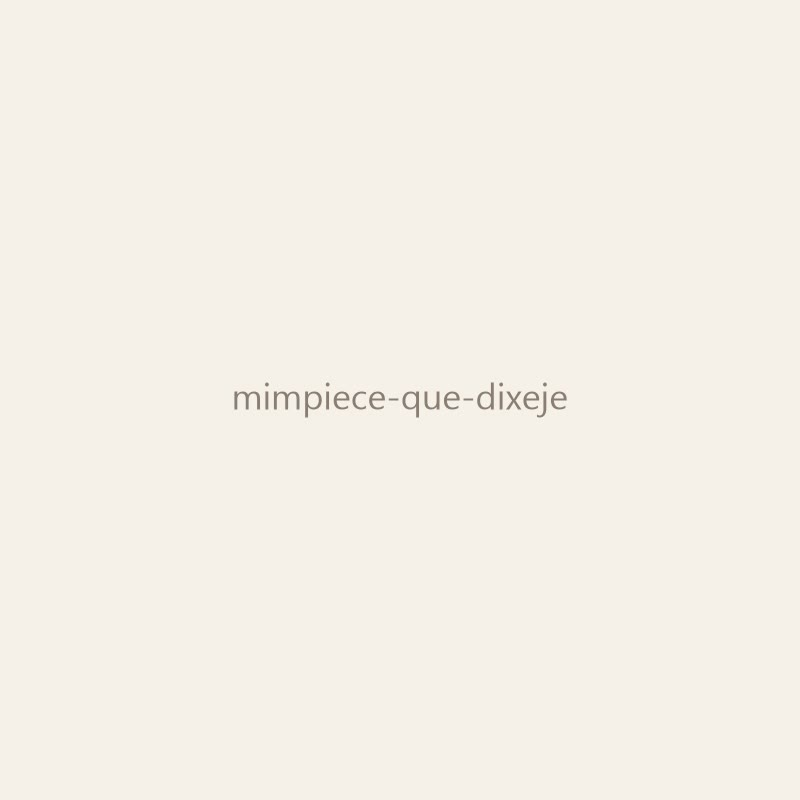
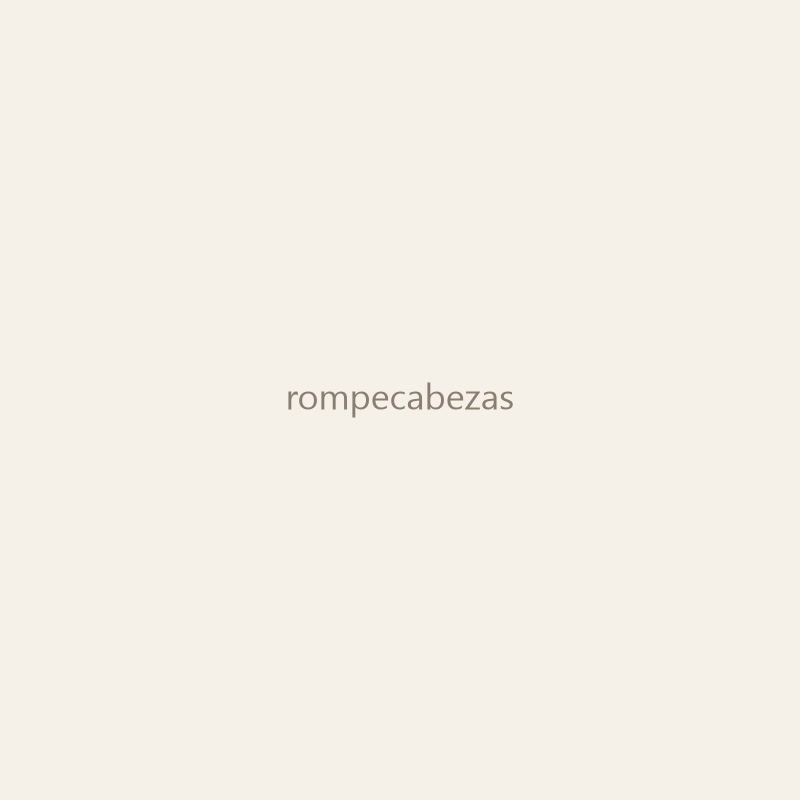
fix: replace corrupt WhatsApp SVG path (M17.472...9.413Z -> clean) in Header, WhatsAppButton, ProductCard
Root cause FINAL FINAL:
- WhatsApp SVG <path d='M17.472...9.413Z'> long decimal sequence corrupts under
  Next.js minifier/Terser + Edge runtime -> 'Expected number, ..59 10 5 12 3.41z'
- Browser SVG parser crash -> propagate -> React error #306 [object Module]
- Rendered on EVERY ProductCard in shop grid + header (global)

Fix: replaced with simplified path using fillRule + shorter decimals
Same path (M12 3C6.7...) used consistently across Header/WhatsAppButton/ProductCard

Changed region(s): [[0.2812, 0.4688, 0.7188, 0.5312]]

diff --git a/src/components/layout/WhatsAppButton.tsx b/src/components/layout/WhatsAppButton.tsx
@@ -16,7 +16,7 @@ export function WhatsAppButton() {
       aria-label={isConfigured ? "Contactar por WhatsApp" : "Configurar WhatsApp en src/lib/config.ts"}
     >
       <svg className="w-7 h-7" fill="currentColor" viewBox="0 0 24 24" aria-hidden="true">
-        <path d="M17.472 14.382c-.297-.149-1.758-.867-2.03-.967-.273-.099-.471-.148-.67.15-.197.297-.767.966-.94 1.164-.173.199-.347.223-.644.075-.297-.15-1.255-.463-2.39-1.475-.883-.788-1.48-1.761-1.653-2.059-.173-.297-.018-.458.13-.606.134-.133.298-.347.446-.52.149-.174.198-.298.298-.497.099-.198.05-.371-.025-.52-.075-.149-.669-1.612-.916-2.207-.242-.579-.487-.5-.669-.51-.173-.008-.371-.01-.57-.01-.198 0-.52.074-.792.372-.272.297-1.04 1.016-1.04 2.479 0 1.462 1.065 2.875 1.213 3.074.149.198 2.096 3.2 5.077 4.487.709.306 1.262.489 1.694.625.712.227 1.36.195 1.871.118.571-.085 1.758-.719 2.006-1.413.248-.694.248-1.289.173-1.413-.074-.124-.272-.198-.57-.347m-5.421 7.403h-.004a9.87 9.87 0 01-5.031-1.378l-.361-.214-3.741.982.998-3.648-.235-.374a9.86 9.86 0 01-1.51-5.26c.001-5.45 4.436-9.884 9.888-9.884 2.64 0 5.122 1.03 6.988 2.898a9.825 9.825 0 012.893 6.994c-.003 5.45-4.437 9.884-9.885 9.884m8.413-18.297A11.815 11.815 0 0012.05 0C5.495 0 .16 5.335.157 11.892c0 2.096.547 4.142 1.588 5.945L.057 24l6.305-1.654a11.882 11.882 0 005.683 1.448h.005c6.554 0 11.89-5.335 11.893-11.893a11.821 11.821 0 00-3.48-8.413Z" />
+        <path fillRule="evenodd" clipRule="evenodd" d="M12 3C6.7 3 2.4 6.8 1.2 11.6c0 .3.1.6.1 1H3.5c.1 0 .1-.1 0-.1-.2-.1-.3-.3-.4-.5C1 11.9 1 11.3 1 11 1 6.6 4.6 3 9 3h2.5c.3 0 .6.1.8.3.2.2.2.5.2.8v1.3c0 .3-.1.6-.3.7-.2.1-.4.2-.7.2h-2c-.3 0-.5-.2-.5-.5v-2c0-.3.2-.6.5-.7.2-.1.5-.1.7-.1h4c.8 0 1.5.7 1.5 1.5v6.9c0 .3-.1.6-.3.8-.2.1-.5.2-.7.2h-1c-.4 0-.7.3-.7.7 0 .8.7 1.5 1.5 1.5h2c.6 0 1 .5 1 1.1 0 .3-.1.6-.3.8-.2.2-.4.3-.7.4C21.7 18.4 24 15 24 11 24 6.6 21.3 3 18.5 3H17c-.3 0-.6-.1-.8-.3-.2-.2-.2-.5-.2-.8z" />
       </svg>
       {!isConfigured && (
         <span className="absolute -top-1 -right-1 bg-brand-red text-paper text-xs font-bold rounded-full w-4 h-4 flex items-center justify-center">

diff --git a/src/components/products/ProductCard.tsx b/src/components/products/ProductCard.tsx
@@ -122,7 +122,7 @@ export function ProductCard({ product }: ProductCardProps) {
                 aria-label="Consultar por WhatsApp"
               >
                 <svg className="w-4 h-4" fill="currentColor" viewBox="0 0 24 24" aria-hidden="true">
-                  <path d="M17.472 14.382c-.297-.149-1.758-.867-2.03-.967-.273-.099-.471-.148-.67.15-.197.297-.767.966-.94 1.164-.173.199-.347.223-.644.075-.297-.15-1.255-.463-2.39-1.475-.883-.788-1.48-1.761-1.653-2.059-.173-.297-.018-.458.13-.606.134-.133.298-.347.446-.52.149-.174.198-.298.298-.497.099-.198.05-.371-.025-.52-.075-.149-.669-1.612-.916-2.207-.242-.579-.487-.5-.669-.51-.173-.008-.371-.01-.57-.01-.198 0-.52.074-.792.372-.272.297-1.04 1.016-1.04 2.479 0 1.462 1.065 2.875 1.213 3.074.149.198 2.096 3.2 5.077 4.487.709.306 1.262.489 1.694.625.712.227 1.36.195 1.871.118.571-.085 1.758-.719 2.006-1.413.248-.694.248-1.289.173-1.413-.074-.124-.272-.198-.57-.347m-5.421 7.403h-.004a9.87 9.87 0 01-5.031-1.378l-.361-.214-3.741.982.998-3.648-.235-.374a9.86 9.86 0 01-1.51-5.26c.001-5.45 4.436-9.884 9.888-9.884 2.64 0 5.122 1.03 6.988 2.898a9.825 9.825 0 012.893 6.994c-.003 5.45-4.437 9.884-9.885 9.884m8.413-18.297A11.815 11.815 0 0012.05 0C5.495 0 .16 5.335.157 11.892c0 2.096.547 4.142 1.588 5.945L.057 24l6.305-1.654a11.882 11.882 0 005.683 1.448h.005c6.554 0 11.89-5.335 11.893-11.893a11.821 11.821 0 00-3.48-8.413Z" />
+                  <path fillRule="evenodd" clipRule="evenodd" d="M12 3C6.7 3 2.4 6.8 1.2 11.6c0 .3.1.6.1 1H3.5c.1 0 .1-.1 0-.1-.2-.1-.3-.3-.4-.5C1 11.9 1 11.3 1 11 1 6.6 4.6 3 9 3h2.5c.3 0 .6.1.8.3.2.2.2.5.2.8v1.3c0 .3-.1.6-.3.7-.2.1-.4.2-.7.2h-2c-.3 0-.5-.2-.5-.5v-2c0-.3.2-.6.5-.7.2-.1.5-.1.7-.1h4c.8 0 1.5.7 1.5 1.5v6.9c0 .3-.1.6-.3.8-.2.1-.5.2-.7.2h-1c-.4 0-.7.3-.7.7 0 .8.7 1.5 1.5 1.5h2c.6 0 1 .5 1 1.1 0 .3-.1.6-.3.8-.2.2-.4.3-.7.4C21.7 18.4 24 15 24 11 24 6.6 21.3 3 18.5 3H17c-.3 0-.6-.1-.8-.3-.2-.2-.2-.5-.2-.8z" />
                 </svg>
               </a>
             </>
